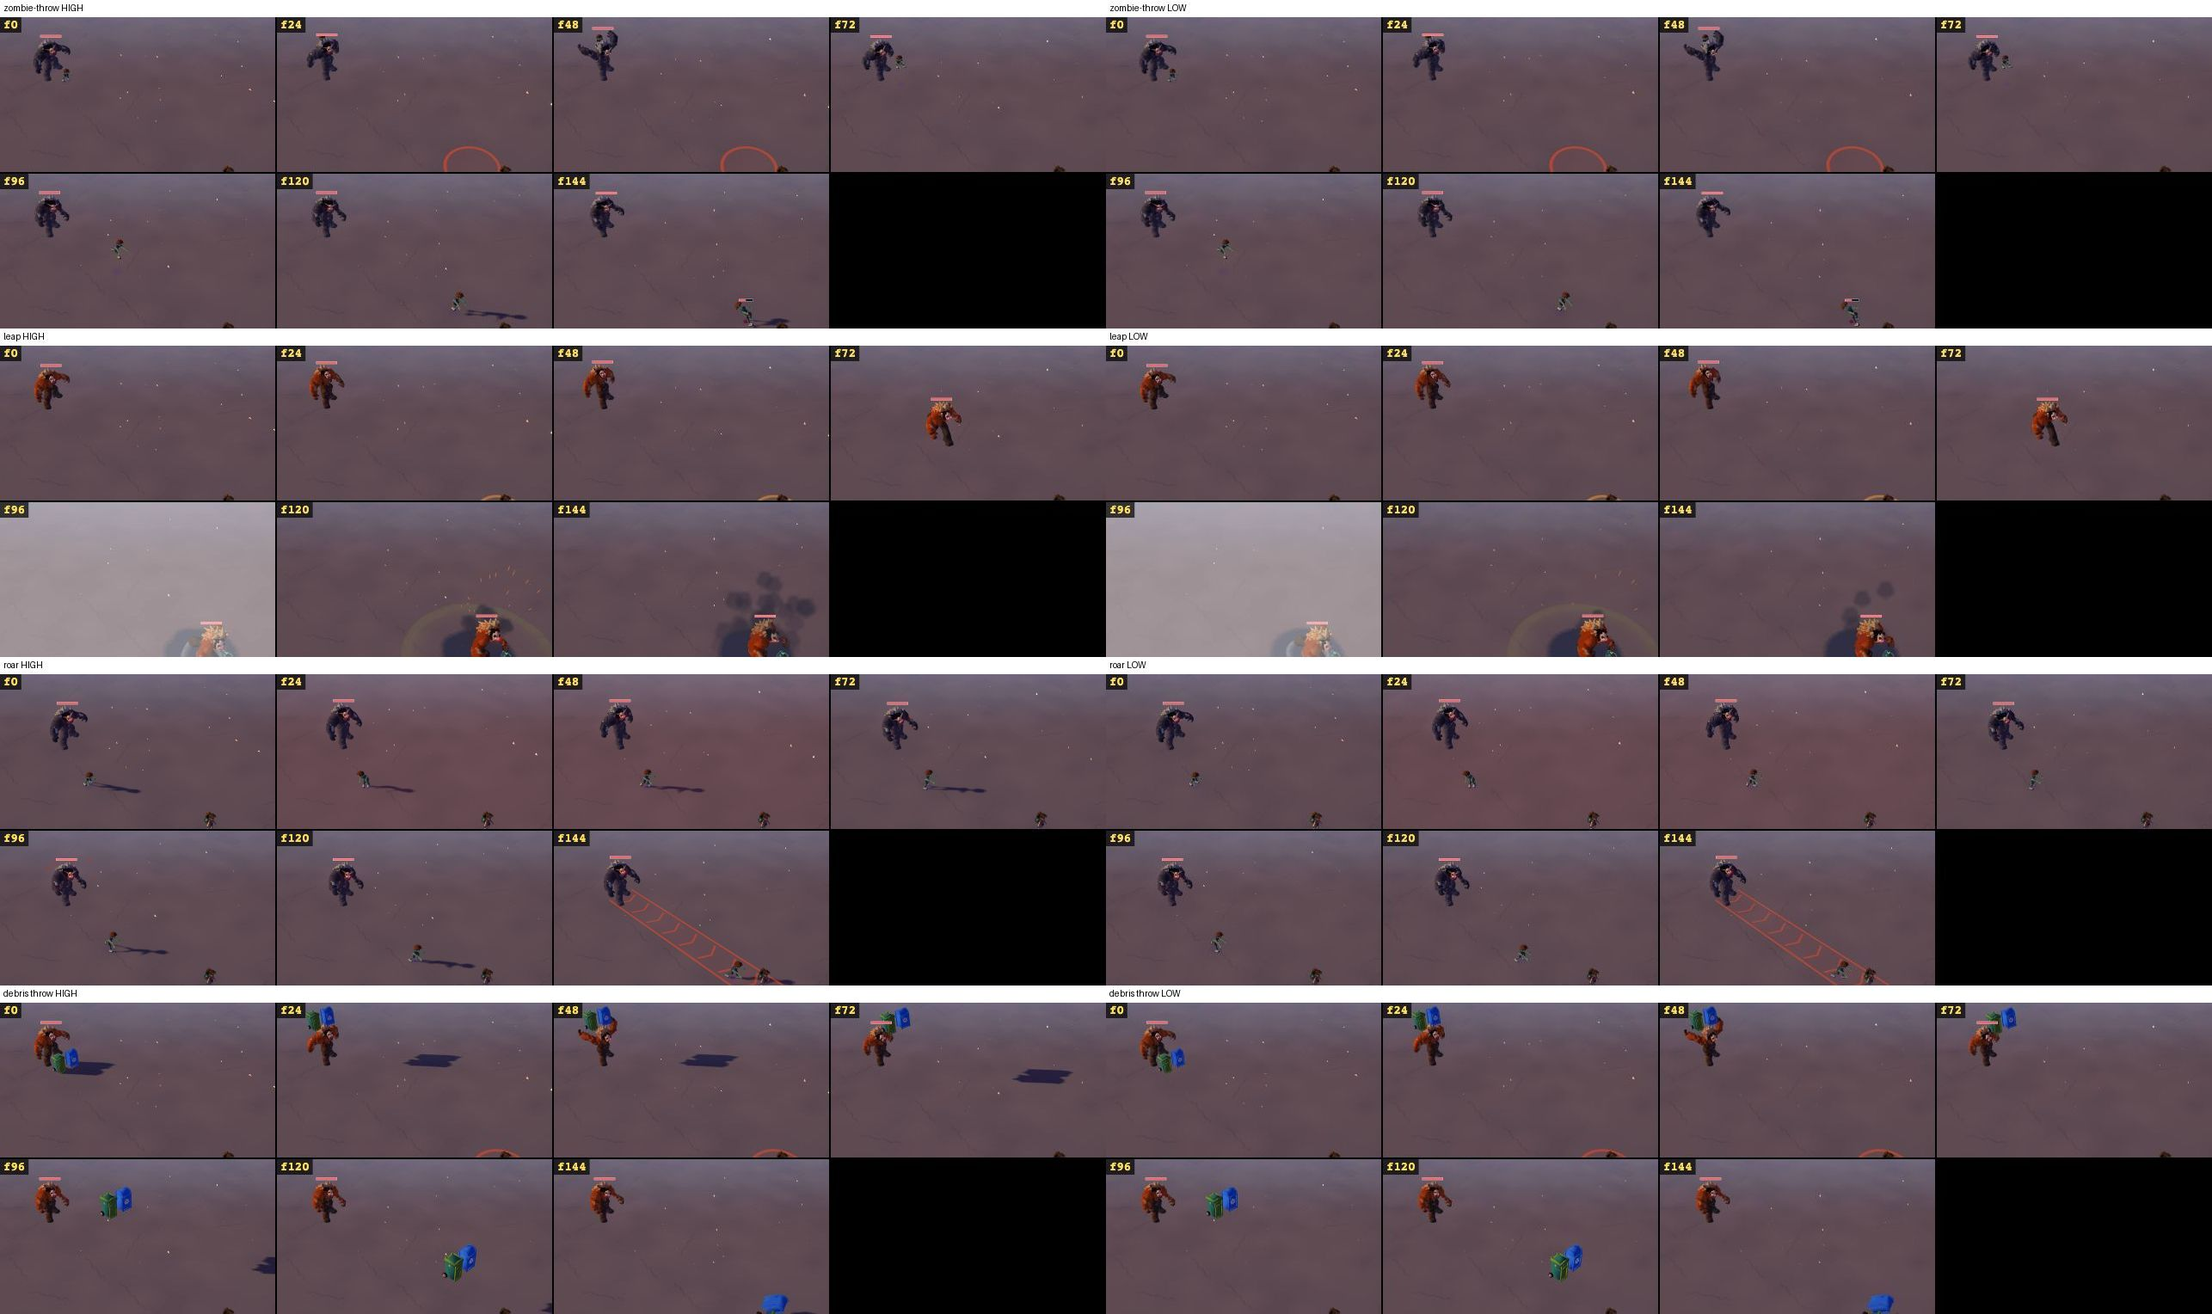
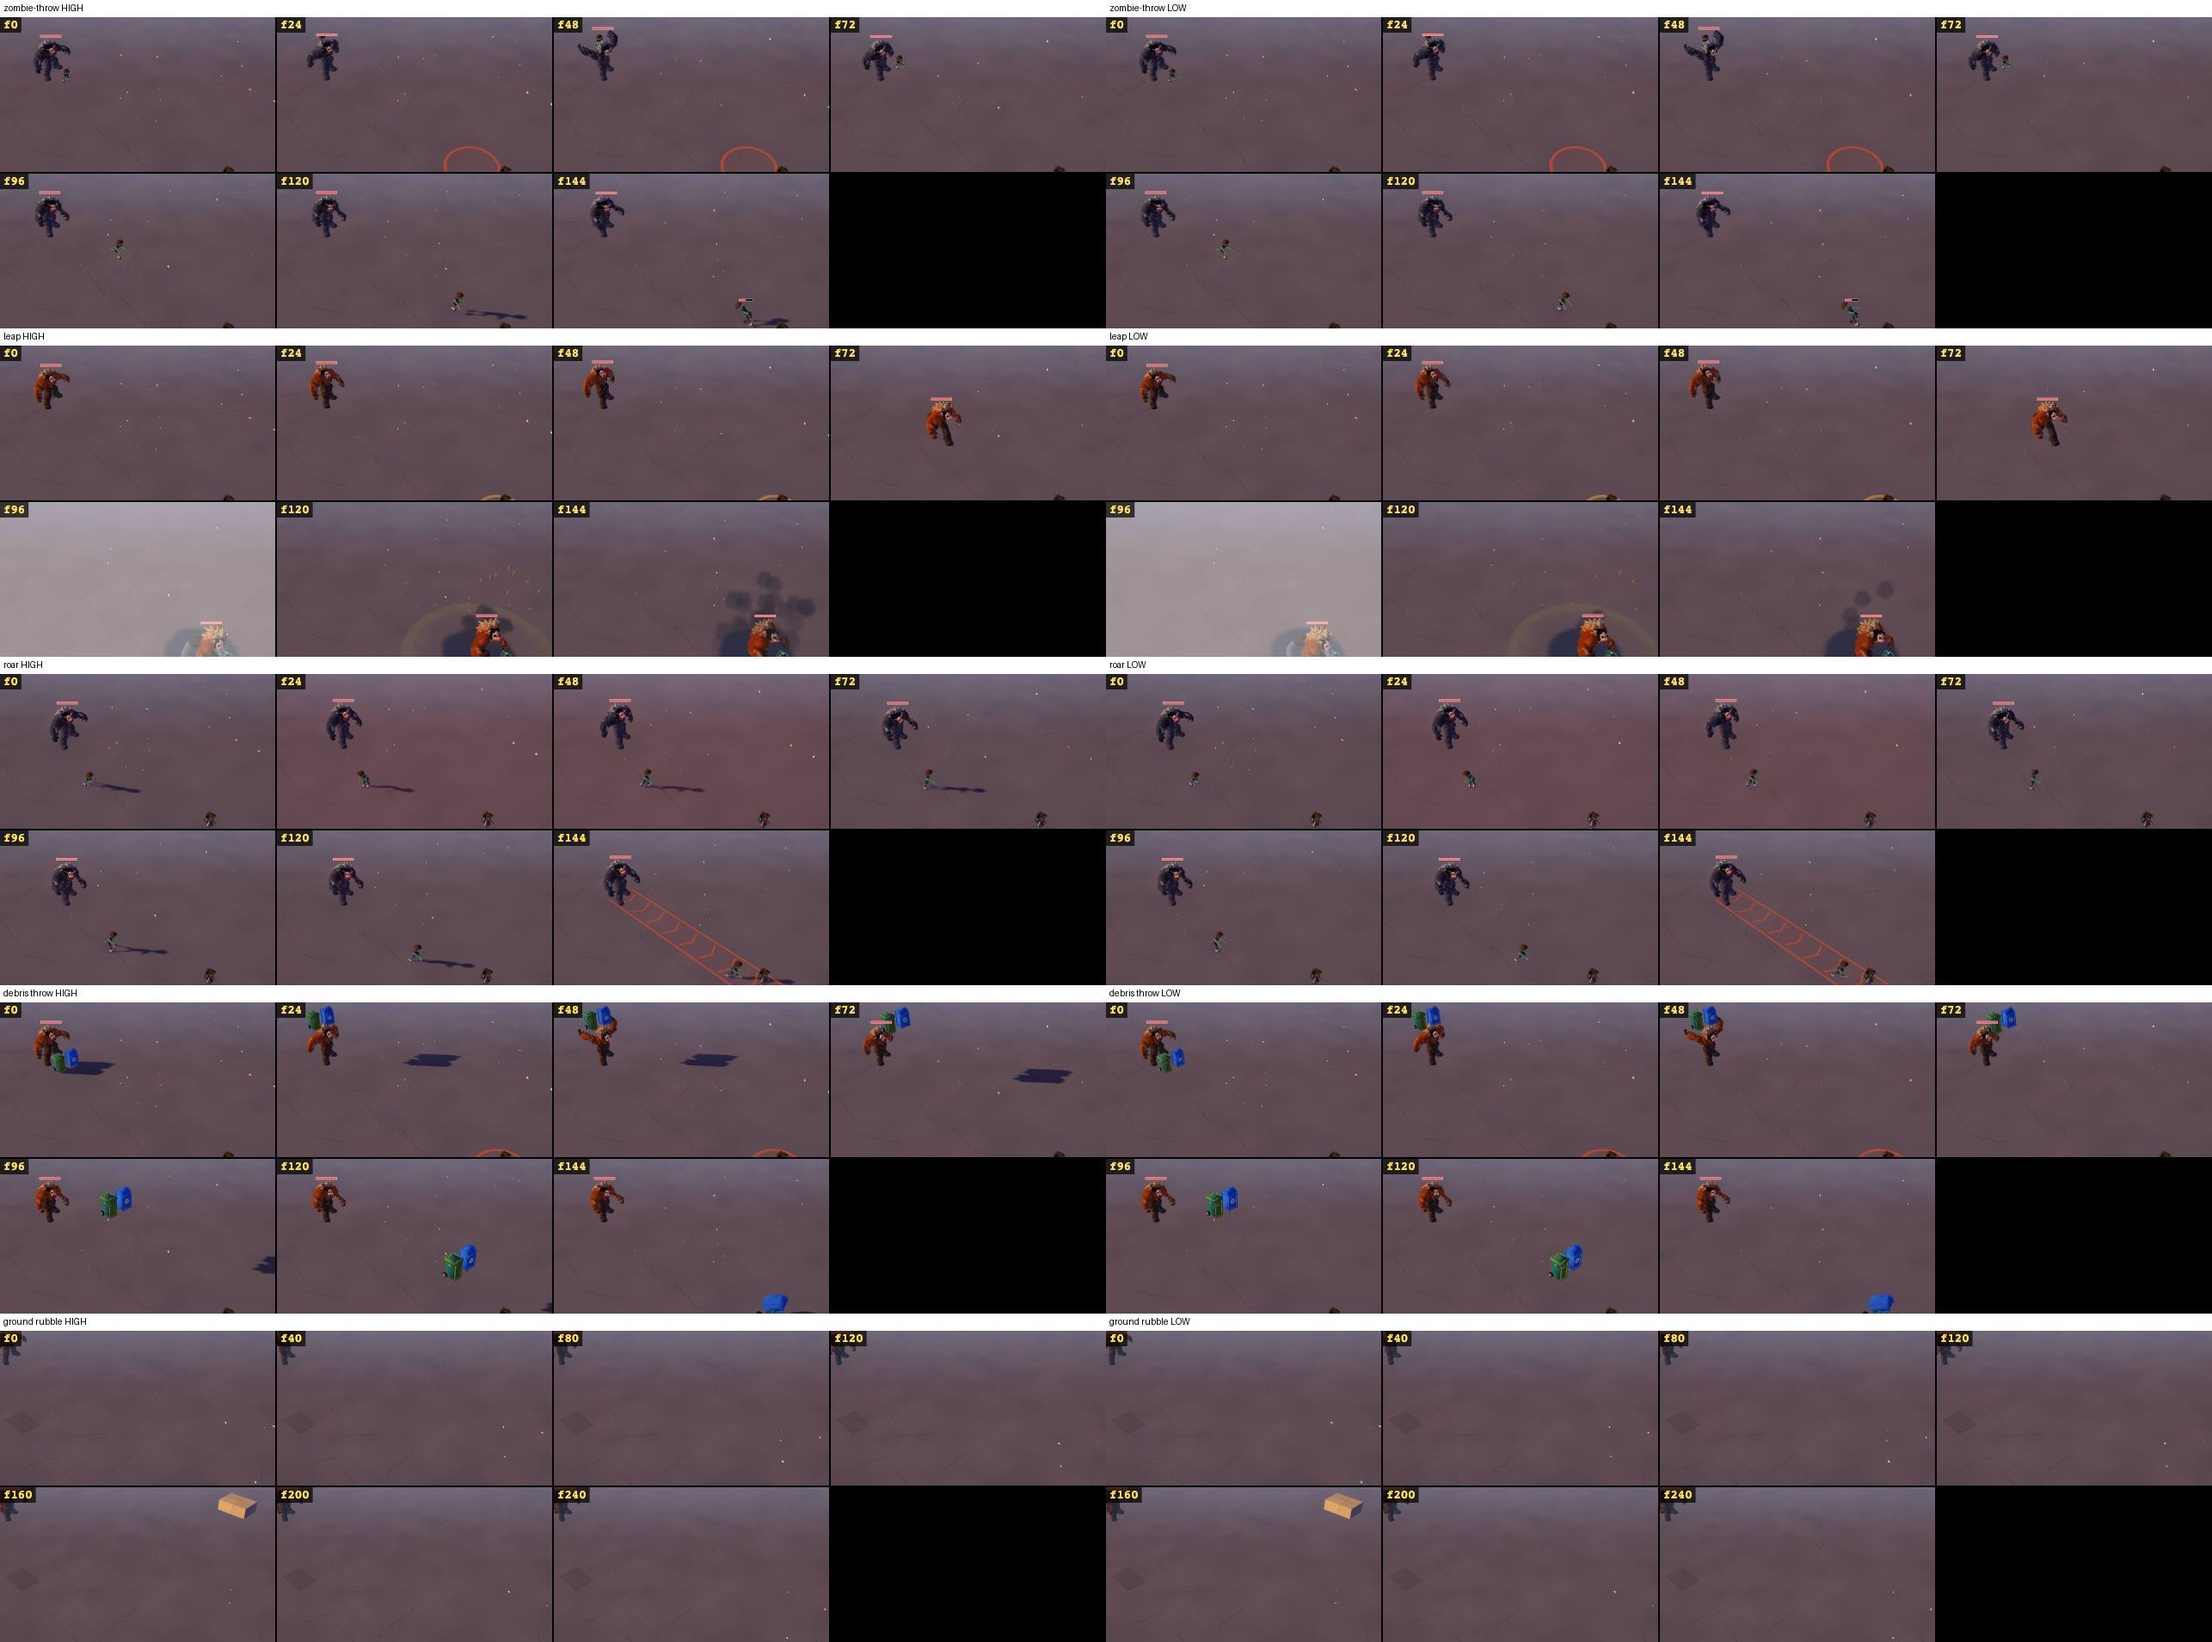
Capture long-range Mega rubble throw

diff --git a/docs/reports/s187-megamoves/README.md b/docs/reports/s187-megamoves/README.md
@@ -22,7 +22,8 @@ Committed in `b13a9f47`, `7c8f6676`, and `4c52b512`.
 - Enforced at least 180 ticks between Mega special starts. Typecheck, lint and the focused infected AI test pass. The isolated LOW L10 audit still hit the skilled tick budget with 44 deaths; the spacing correction alone does not resolve the regression.
 - Pursuit now selects leap and charge outside the close-range brain. The focused AI test checks automatic leap selection at 20 m and the 179/180-tick spacing boundary; it passes. The isolated LOW L10 audit still timed out at the Mega objective with 44 deaths after this change.
 - Corrected the Mega throw marker's range cap from 25 to 35 m to match its projectile. Typecheck and lint passed; visual verification of a throw beyond 25 m remains open.
-- The ground fallback is covered by the focused AI test, including creation of a concrete chunk with a blocking collision group and a thrown event. Typecheck and lint pass. Browser review of its appearance and landing remains open; the finite debris pool can be exhausted.
+- The ground fallback is covered by the focused AI test, including creation of a concrete chunk with a blocking collision group and a thrown event. Typecheck and lint pass. The 30 m ground-rubble Scene Lab scenario passed its HIGH and LOW gates and reached the throw's active stage; its strips are in the contact sheet for visual review. The finite debris pool can be exhausted.
+- With the fallback enabled, the isolated LOW L10 skilled audit again hit 1,800 seconds at the Mega objective, with 47 deaths and 5,105.55 total damage taken. The partial run is diagnostic and does not replace the full gate.
 - Headless WebGL2 Scene Lab under `tools/e2e-lock.sh`: all nine original HIGH scenarios and the zombie throw, leap, roar and debris throw HIGH/LOW scenarios passed their configured gates. [Contact sheet](moves-contact-sheet.jpg) contains their six-frame HIGH and LOW strips; visual review remains for the orchestrator. The debris scenario records active and recovery stages; these isolated scripted scenes do not establish hit, dodge or DPS criteria.
 
 ## Open acceptance items
